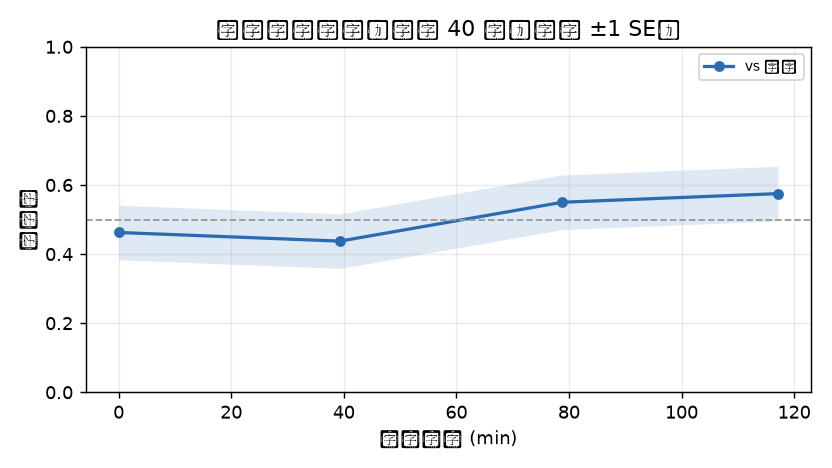
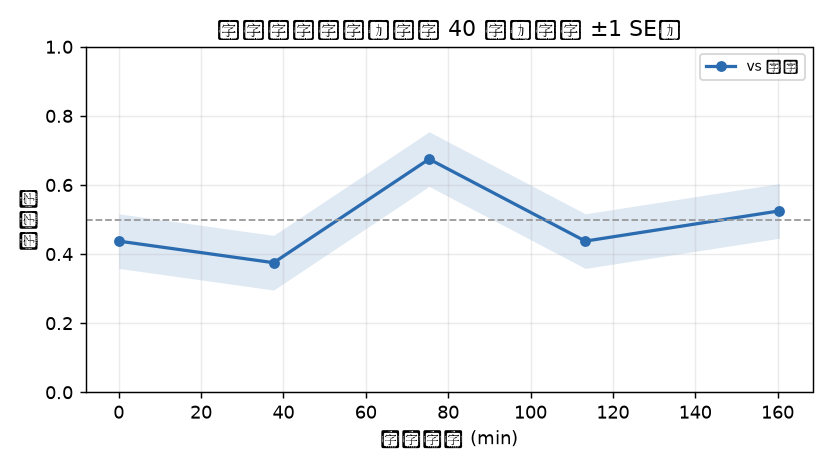
三个体检脚本：loss 三块分解、目标自洽性（含 Dirichlet 开关）、冻结批过拟合

diff --git a/scripts/diag_target.py b/scripts/diag_target.py
@@ -1,0 +1,108 @@
+"""目标自洽性体检：同一个局面搜两次，目标本身差多少。
+
+为什么要做：如果两次独立搜索给出的推进分布差别很大，那么"网络拟合目标"这件事
+就有一个不可消除的地板。loss 卡住之前，先量这个地板有多高。
+
+做法：从最近一局自博弈里均匀取 N 个局面，每个局面用两个不同的 Dirichlet 噪声种子
+各搜 240 次，比较两次的 top1 / top5 / KL（在两次支撑集的并集上归一后算）。
+再顺手把"网络对这份目标的 KL"放在同一张表里对比。
+
+用法: .venv/bin/python scripts/diag_target.py --run runs/wide --n 40 --sims 240
+"""
+import argparse
+import glob
+import json
+import os
+import sys
+
+import numpy as np
+
+HERE = os.path.dirname(os.path.abspath(__file__))
+sys.path.insert(0, os.path.join(HERE, "..", "src"))
+
+from xiangqi import Board, START_FEN, move_to_index  # noqa: E402
+
+
+def positions_from_game(path, n):
+    d = json.load(open(path))
+    moves = [(m["frm"], m["to"]) for m in d["moves"]]
+    boards = []
+    b = Board(START_FEN)
+    for mv in moves:
+        if b.result() is not None:
+            break
+        boards.append(b.copy())
+        b.make(*mv)
+    if len(boards) <= n:
+        return boards
+    idx = np.linspace(0, len(boards) - 1, n).astype(int)
+    return [boards[i] for i in idx]
+
+
+def target_from_visits(visits, top_k=16):
+    total = sum(visits.values())
+    top = sorted(visits.items(), key=lambda kv: -kv[1])[:top_k]
+    return {move_to_index(f, t): n / total for (f, t), n in top}
+
+
+def kl_union(a, b):
+    keys = set(a) | set(b)
+    pa = np.array([a.get(k, 0.0) for k in keys], dtype=np.float64)
+    pb = np.array([b.get(k, 0.0) for k in keys], dtype=np.float64)
+    pa = pa / max(pa.sum(), 1e-12)
+    pb = pb / max(pb.sum(), 1e-12)
+    return float((pa * (np.log(pa + 1e-12) - np.log(pb + 1e-12))).sum())
+
+
+def main():
+    ap = argparse.ArgumentParser()
+    ap.add_argument("--run", default="runs/wide")
+    ap.add_argument("--model", default=None)
+    ap.add_argument("--n", type=int, default=40)
+    ap.add_argument("--sims", type=int, default=240)
+    ap.add_argument("--dirichlet", type=float, default=0.3,
+                    help="根部探索噪声强度，0 = 关掉")
+    args = ap.parse_args()
+    model = args.model or os.path.join(args.run, "model.npz")
+
+    with np.load(model) as d:
+        w = d["W1p"].shape[1]
+    os.environ["POL_H1"] = os.environ["POL_H2"] = str(w)
+    from nn import Net  # noqa: E402
+    from mcts import search  # noqa: E402
+
+    net = Net.load(model)
+    games = sorted(glob.glob(os.path.join(args.run, "games", "*.json")))
+    if not games:
+        raise SystemExit("找不到对局文件")
+    boards = positions_from_game(games[-1], args.n)
+    print(f"模型 {model}（宽 {w}），对局 {os.path.basename(games[-1])}，取 {len(boards)} 个局面，"
+          f"每次 {args.sims} sims")
+
+    top1 = []
+    top5 = []
+    kls = []
+    for i, b in enumerate(boards):
+        r1 = np.random.default_rng(1000 + i)
+        r2 = np.random.default_rng(9000 + i)
+        v1, _ = search(b, net, sims=args.sims, dirichlet=args.dirichlet, rng=r1, use_q=True, safety=True)
+        v2, _ = search(b, net, sims=args.sims, dirichlet=args.dirichlet, rng=r2, use_q=True, safety=True)
+        if not v1 or not v2:
+            continue
+        t1, t2 = target_from_visits(v1), target_from_visits(v2)
+        k1 = max(t1.items(), key=lambda kv: kv[1])[0]
+        k2 = max(t2.items(), key=lambda kv: kv[1])[0]
+        top1.append(1.0 if k1 == k2 else 0.0)
+        s5_1 = set(k for k, _ in sorted(t1.items(), key=lambda kv: -kv[1])[:5])
+        s5_2 = set(k for k, _ in sorted(t2.items(), key=lambda kv: -kv[1])[:5])
+        top5.append(len(s5_1 & s5_2) / 5.0)
+        kls.append(kl_union(t1, t2))
+
+    print(f"同一局面搜两次（只换噪声种子，{len(top1)} 个局面）：")
+    print(f"  top1 一致率      {np.mean(top1):.1%}")
+    print(f"  top5 重合率      {np.mean(top5):.1%}")
+    print(f"  两次目标间 KL    {np.mean(kls):.3f} nats（单向）")
+
+
+if __name__ == "__main__":
+    main()

diff --git a/scripts/diag_policy.py b/scripts/diag_policy.py
@@ -1,0 +1,99 @@
+"""策略损失体检：把 loss_p 拆成三块，看它到底卡在哪。
+
+trainer 的 loss 可以精确分解（不是近似）：
+    loss_p = -Σ_top16 π·log p
+           = H(π)                 目标自身的熵，只要目标不变，这项就不可能降
+           + KL(π ‖ p/s)          网络在目标支撑集上的形状差多少
+           + (−log s)             网络放到目标支撑集之外的概质量（s = p 在 top16 上的和）
+
+loss 看不见、但直接决定棋力的是排序：
+    top1 一致率、top5 覆盖率、网络给目标首选着法的概率
+
+一个进程处理一个 checkpoint（因为主干宽度决定网络结构，必须在 import nn 前设好环境变量）。
+批量用法见 scripts/diag_all.sh，或直接：
+  .venv/bin/python scripts/diag_policy.py --ckpt runs/q1/model.npz --queue runs/q1/queue
+"""
+import argparse
+import glob
+import json
+import os
+import sys
+
+import numpy as np
+
+HERE = os.path.dirname(os.path.abspath(__file__))
+
+
+def load_samples(queue_dir, want):
+    xs, idxs, ps, zs = [], [], [], []
+    files = sorted(glob.glob(os.path.join(queue_dir, "*.npz")))[-150:]
+    for f in files:
+        d = np.load(f)
+        for x, i, p, z in zip(d["X"], d["pi_idx"], d["pi_p"], d["Z"]):
+            xs.append(x), idxs.append(i), ps.append(p), zs.append(z)
+            if len(xs) >= want:
+                return (np.asarray(xs, dtype=np.float32), np.asarray(idxs),
+                        np.asarray(ps, dtype=np.float32), np.asarray(zs, dtype=np.float32))
+    return (np.asarray(xs, dtype=np.float32), np.asarray(idxs),
+            np.asarray(ps, dtype=np.float32), np.asarray(zs, dtype=np.float32))
+
+
+def main():
+    ap = argparse.ArgumentParser()
+    ap.add_argument("--ckpt", required=True)
+    ap.add_argument("--queue", default="runs/wide/queue")
+    ap.add_argument("--n", type=int, default=3000)
+    args = ap.parse_args()
+
+    # 先读宽度，再 import nn（nn 用环境变量决定主干宽度）
+    with np.load(args.ckpt) as d:
+        w1, w2 = d["W1p"].shape[1], d["W2p"].shape[0]
+    os.environ["POL_H1"], os.environ["POL_H2"] = str(w1), str(w2)
+    sys.path.insert(0, os.path.join(HERE, "..", "src"))
+    from nn import Net  # noqa: E402
+
+    X, idx, pi, Z = load_samples(args.queue, args.n)
+    net = Net.load(args.ckpt)
+
+    logits, val = net.forward(X)
+    logits = logits - logits.max(axis=1, keepdims=True)
+    logp = logits - np.log(np.exp(logits).sum(axis=1, keepdims=True))
+    prob = np.exp(logp)
+
+    valid = idx >= 0
+    pi = pi * valid
+    pi = pi / np.maximum(pi.sum(axis=1, keepdims=True), 1e-12)
+    rows = np.arange(len(X))[:, None]
+    p_sup = np.where(valid, prob[rows, np.maximum(idx, 0)], 0.0)
+    s = np.clip(p_sup.sum(axis=1), 1e-12, 1.0)
+
+    log_pi = np.where(valid, np.log(np.maximum(pi, 1e-12)), 0.0)
+    log_ps = np.where(valid, np.log(np.maximum(p_sup, 1e-12)), 0.0)
+    H = -(np.where(valid, pi * log_pi, 0.0)).sum(1)
+    loss_total = -(np.where(valid, pi * log_ps, 0.0)).sum(1)
+    kl = (np.where(valid, pi * (log_pi - (log_ps - np.log(s)[:, None])), 0.0)).sum(1)
+    tail = -np.log(s)
+
+    mask_net = np.where(valid, p_sup, -1.0)
+    top1 = float((mask_net.argmax(1) == pi.argmax(1)).mean())
+    order_pi = np.argsort(-pi, axis=1)
+    order_net = np.argsort(-mask_net, axis=1)
+    cov = float(np.mean([len(set(order_pi[r, :5]) & set(order_net[r, :5])) / 5.0
+                         for r in range(len(X))]))
+    p_mass = np.where(valid, p_sup, 0.0)
+
+    v = val[:, 0]
+    out = dict(ckpt=args.ckpt, n=int(len(X)), width=int(w1),
+               loss_p=float(loss_total.mean()), H=float(H.mean()),
+               kl=float(kl.mean()), tail=float(tail.mean()),
+               top1=top1, top5=cov,
+               pi_top1_mass=float(pi.max(1).mean()),
+               net_on_target_top1=float(p_mass.max(1).mean()),
+               value_brier=float(((v - Z) ** 2).mean()),
+               value_corr=float(np.corrcoef(v, Z)[0, 1]) if v.std() > 1e-9 else 0.0,
+               value_std=float(v.std()))
+    print(json.dumps(out, ensure_ascii=False))
+
+
+if __name__ == "__main__":
+    main()

diff --git a/scripts/fit_probe.py b/scripts/fit_probe.py
@@ -1,0 +1,97 @@
+"""过拟合体检：拿一批固定数据，反复训同一批样本，看网络能不能把 loss 压下去。
+
+这个测试分开了两件事：
+  能压下去  -> 优化器和容量没问题，loss 高是数据/目标造成的（目标总在变、目标本身带噪声）
+  压不下去  -> 优化本身有问题（学习率、初始化、梯度尺度），换目标或换容量都没用
+
+用法: .venv/bin/python scripts/fit_probe.py --ckpt runs/q1/model.npz --steps 600 --weight 0.1
+"""
+import argparse
+import glob
+import os
+import sys
+
+import numpy as np
+
+HERE = os.path.dirname(os.path.abspath(__file__))
+
+
+def main():
+    ap = argparse.ArgumentParser()
+    ap.add_argument("--ckpt", default="runs/q1/model.npz")
+    ap.add_argument("--queue", default="runs/q1/queue")
+    ap.add_argument("--n", type=int, default=4096)
+    ap.add_argument("--steps", type=int, default=600)
+    ap.add_argument("--batch", type=int, default=128)
+    ap.add_argument("--lr", type=float, default=5e-4)
+    ap.add_argument("--weight", type=float, default=0.1)
+    ap.add_argument("--report-every", type=int, default=100)
+    args = ap.parse_args()
+
+    with np.load(args.ckpt) as d:
+        w = d["W1p"].shape[1]
+    os.environ["POL_H1"] = os.environ["POL_H2"] = str(w)
+    sys.path.insert(0, os.path.join(HERE, "..", "src"))
+    from nn import Net, N_POL  # noqa: E402
+
+    X, IDX, PR, Z = [], [], [], []
+    for f in sorted(glob.glob(os.path.join(args.queue, "*.npz")))[-120:]:
+        d = np.load(f)
+        for x, i, p, z in zip(d["X"], d["pi_idx"], d["pi_p"], d["Z"]):
+            X.append(x), IDX.append(i), PR.append(p), Z.append(z)
+            if len(X) >= args.n:
+                break
+        if len(X) >= args.n:
+            break
+    X = np.asarray(X, dtype=np.float32)
+    IDX = np.asarray(IDX)
+    PR = np.asarray(PR, dtype=np.float32)
+    Z = np.asarray(Z, dtype=np.float32).reshape(-1, 1)
+
+    PI = np.zeros((len(X), N_POL), dtype=np.float32)
+    rows = np.repeat(np.arange(len(X)), IDX.shape[1])
+    valid = IDX.reshape(-1) >= 0
+    PI[rows[valid], IDX.reshape(-1)[valid]] = PR.reshape(-1)[valid]
+    PI /= np.maximum(PI.sum(1, keepdims=True), 1e-12)
+    print(f"数据 {len(X)} 条，宽 {w}，lr {args.lr}，policy_weight {args.weight}，"
+          f"训练 {args.steps} 步（同一批数据反复用）")
+
+    net = Net.load(args.ckpt)
+    rng = np.random.default_rng(7)
+
+    def measure():
+        logits, _ = net.forward(X)
+        logits -= logits.max(1, keepdims=True)
+        logp = logits - np.log(np.exp(logits).sum(1, keepdims=True))
+        prob = np.exp(logp)
+        sup = np.take_along_axis(prob, np.maximum(IDX, 0), axis=1)
+        validm = IDX >= 0
+        ps = np.where(validm, sup, 0.0)
+        s = np.clip(ps.sum(1), 1e-12, 1.0)
+        loss = -float((PI * logp).sum(1).mean())
+        H = -float((PI * np.log(np.maximum(PI, 1e-12))).sum(1).mean())
+        net_top = np.where(validm, ps, -1.0).argmax(1)
+        pi_on_sup = np.take_along_axis(PI, np.maximum(IDX, 0), axis=1)
+        pi_top = np.where(validm, pi_on_sup, -1.0).argmax(1)   # 都在"前 16 个槽位"这个坐标系里比
+        top1 = float((net_top == pi_top).mean())
+        # 网络在目标支撑集上的概率质量（1 - 尾巴）
+        return loss, H, top1, float(s.mean())
+
+    loss0, H, top10, s0 = measure()
+    print(f"step    0  loss {loss0:.3f}  top1 {top10:.1%}  支撑集内质量 {s0:.3f}  "
+          f"(目标熵 {H:.3f} 是下限)")
+
+    for step in range(1, args.steps + 1):
+        idx = rng.integers(0, len(X), size=args.batch)
+        net.train_step(X[idx], PI[idx], Z[idx], lr=args.lr, policy_weight=args.weight)
+        if step % args.report_every == 0:
+            loss, _, top1, s = measure()
+            print(f"step {step:4d}  loss {loss:.3f}  top1 {top1:.1%}  支撑集内质量 {s:.3f}")
+
+    loss, _, top1, s = measure()
+    print(f"\n结果：loss {loss0:.3f} -> {loss:.3f}（下限 {H:.3f}），"
+          f"top1 {top10:.1%} -> {top1:.1%}，支撑集内质量 {s0:.3f} -> {s:.3f}")
+
+
+if __name__ == "__main__":
+    main()

diff --git a/reports/trend.md b/reports/trend.md
@@ -2,13 +2,14 @@
 
 | 时刻 | 分钟 | 自博弈局数 | 胜/和/负 | 得分 |
 |---|---|---|---|---|
-| 11:30:24 | 0 | 33 | 18/1/21 | 0.463 |
-| 12:09:44 | 39 | 179 | 17/1/22 | 0.438 |
-| 12:49:14 | 79 | 321 | 20/4/16 | 0.550 |
-| 13:27:31 | 117 | 429 | 22/2/16 | 0.575 |
+| 14:13:06 | 0 | 33 | 15/5/20 | 0.438 |
+| 14:50:43 | 38 | 192 | 14/2/24 | 0.375 |
+| 15:28:28 | 75 | 358 | 27/0/13 | 0.675 |
+| 16:06:24 | 113 | 523 | 17/1/22 | 0.438 |
+| 16:53:33 | 160 | 589 | 19/4/17 | 0.525 |
 
-- 起点 0.463 -> 末点 0.575，变化 +0.112（单点噪声 ±0.079）
-- 最小二乘斜率 +0.069/小时；局内一致性 ±0.079
-- 同开局配对：40 局可比，15 局变好 / 9 局变坏 / 16 局相同，符号检验 p = 0.307
+- 起点 0.438 -> 末点 0.525，变化 +0.088（单点噪声 ±0.079）
+- 最小二乘斜率 +0.035/小时；局内一致性 ±0.079
+- 同开局配对：40 局可比，17 局变好 / 14 局变坏 / 9 局相同，符号检验 p = 0.720
 
-**结论：无效。** 变化 +0.112 落在噪声带内、配对 p=0.307，这套配置 3 小时里没有可测的进步。按事先约定：停止当前配置，换方向（提高 sims、加大自博弈量级，或换更强的对照与训练目标）。
+**结论：无效。** 变化 +0.088 落在噪声带内、配对 p=0.720，这套配置 3 小时里没有可测的进步。按事先约定：停止当前配置，换方向（提高 sims、加大自博弈量级，或换更强的对照与训练目标）。
